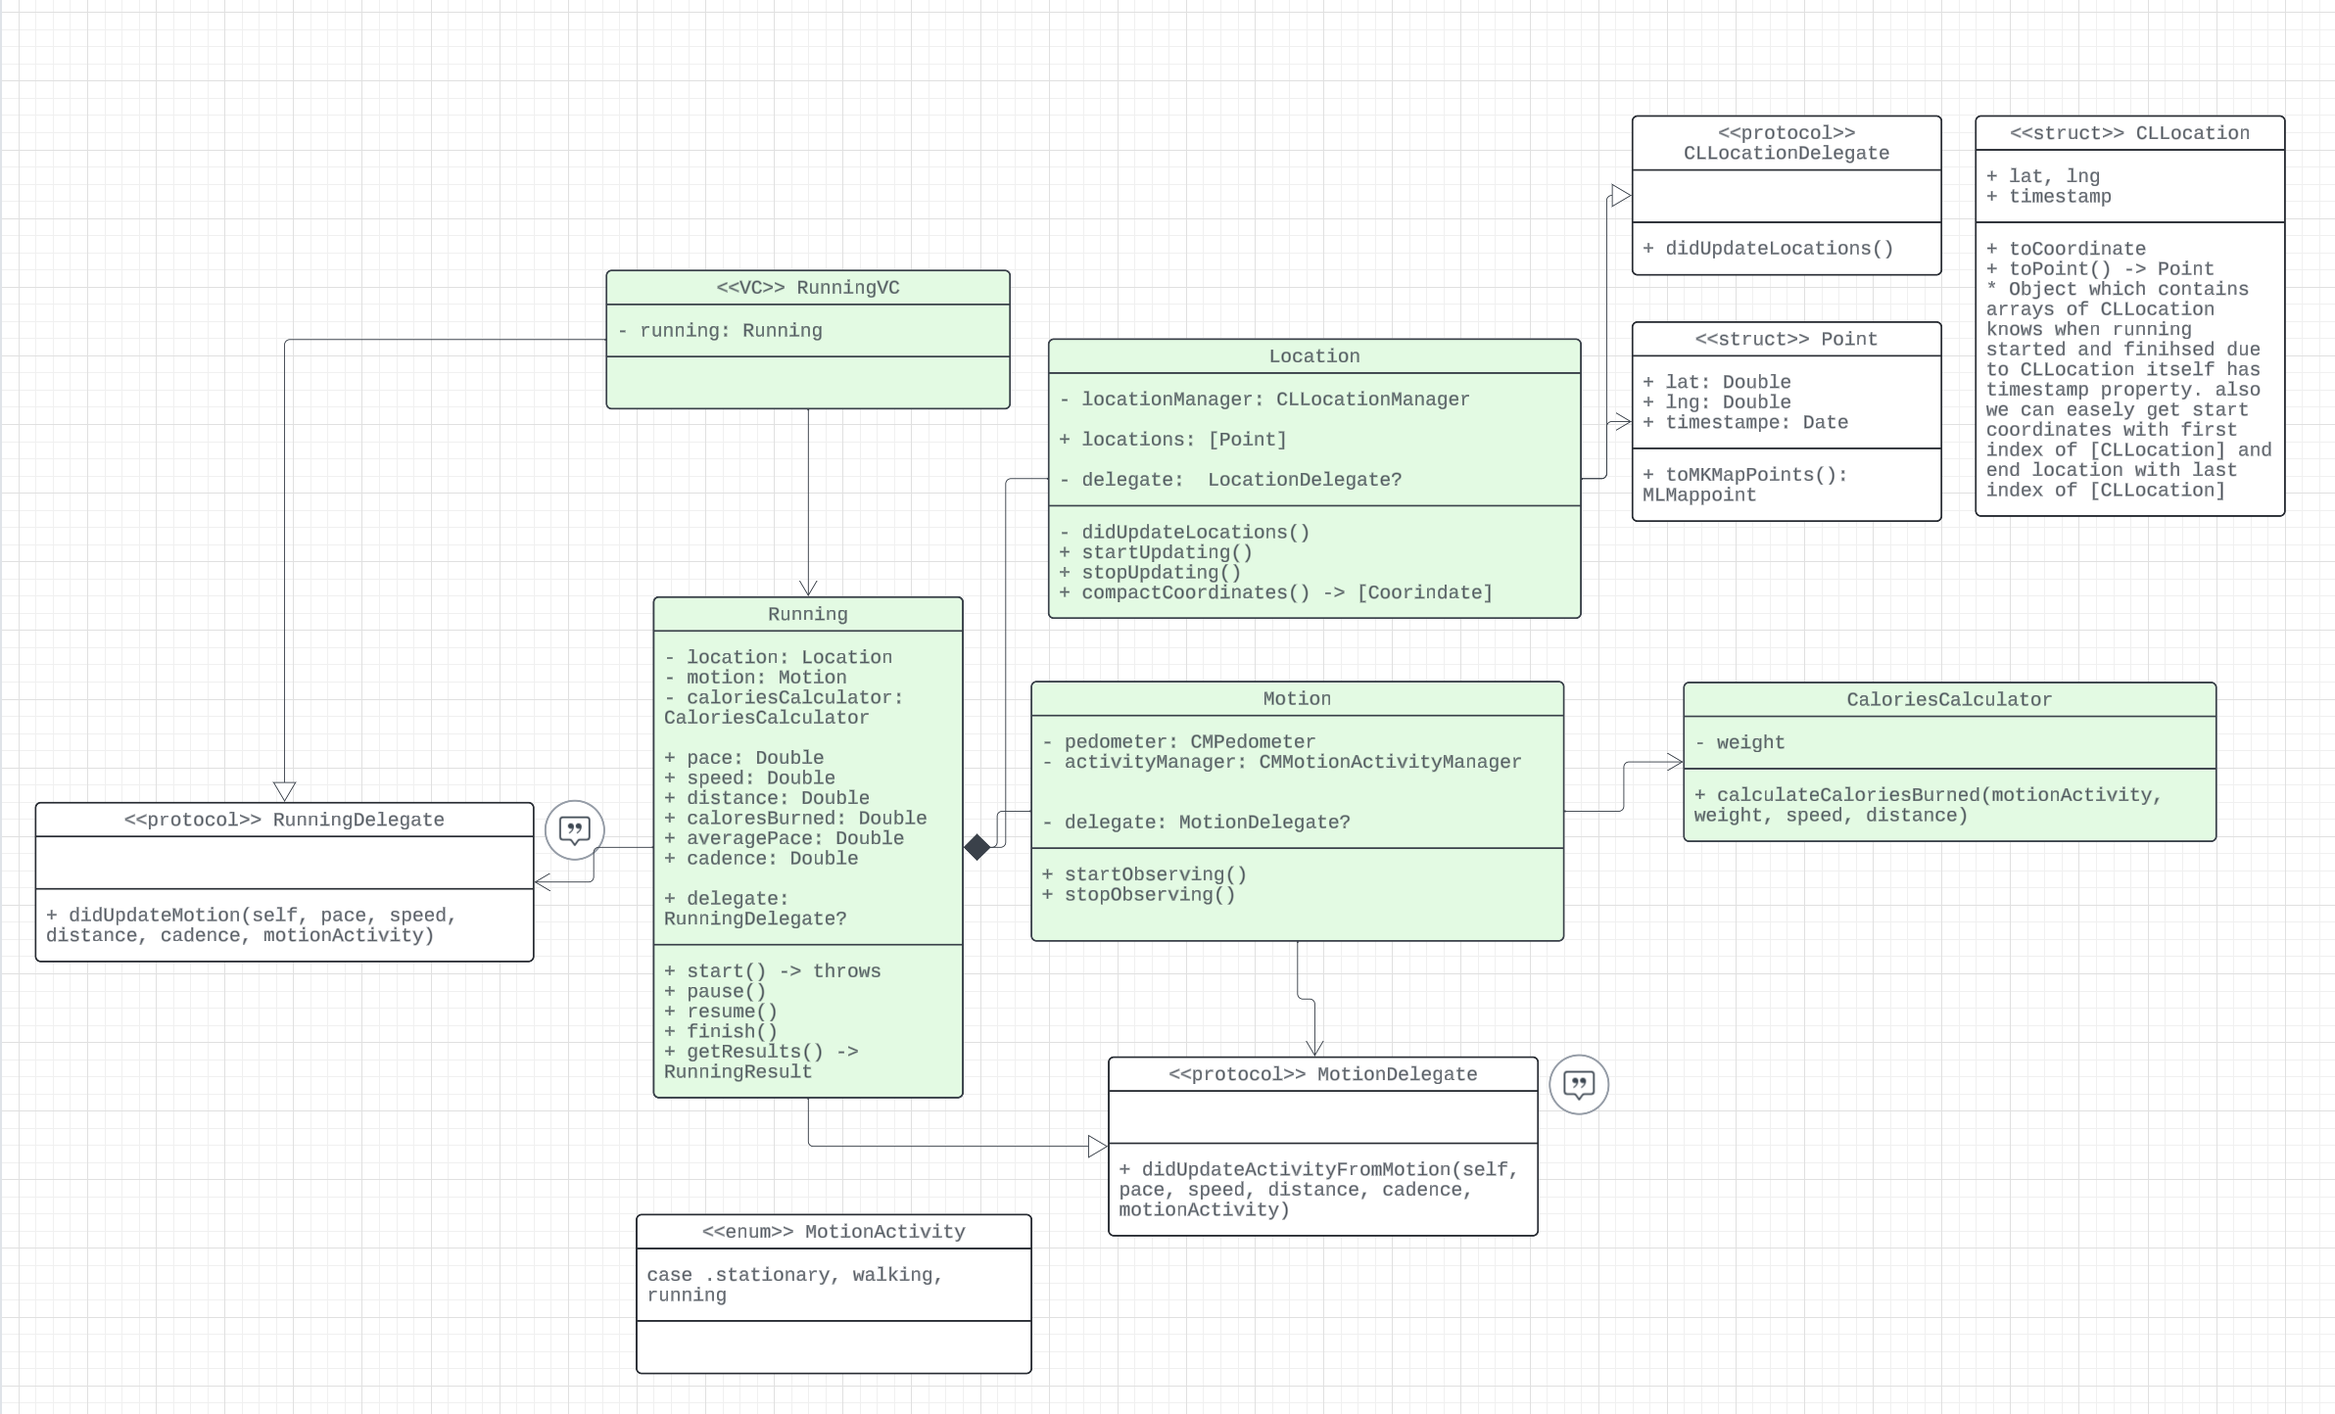
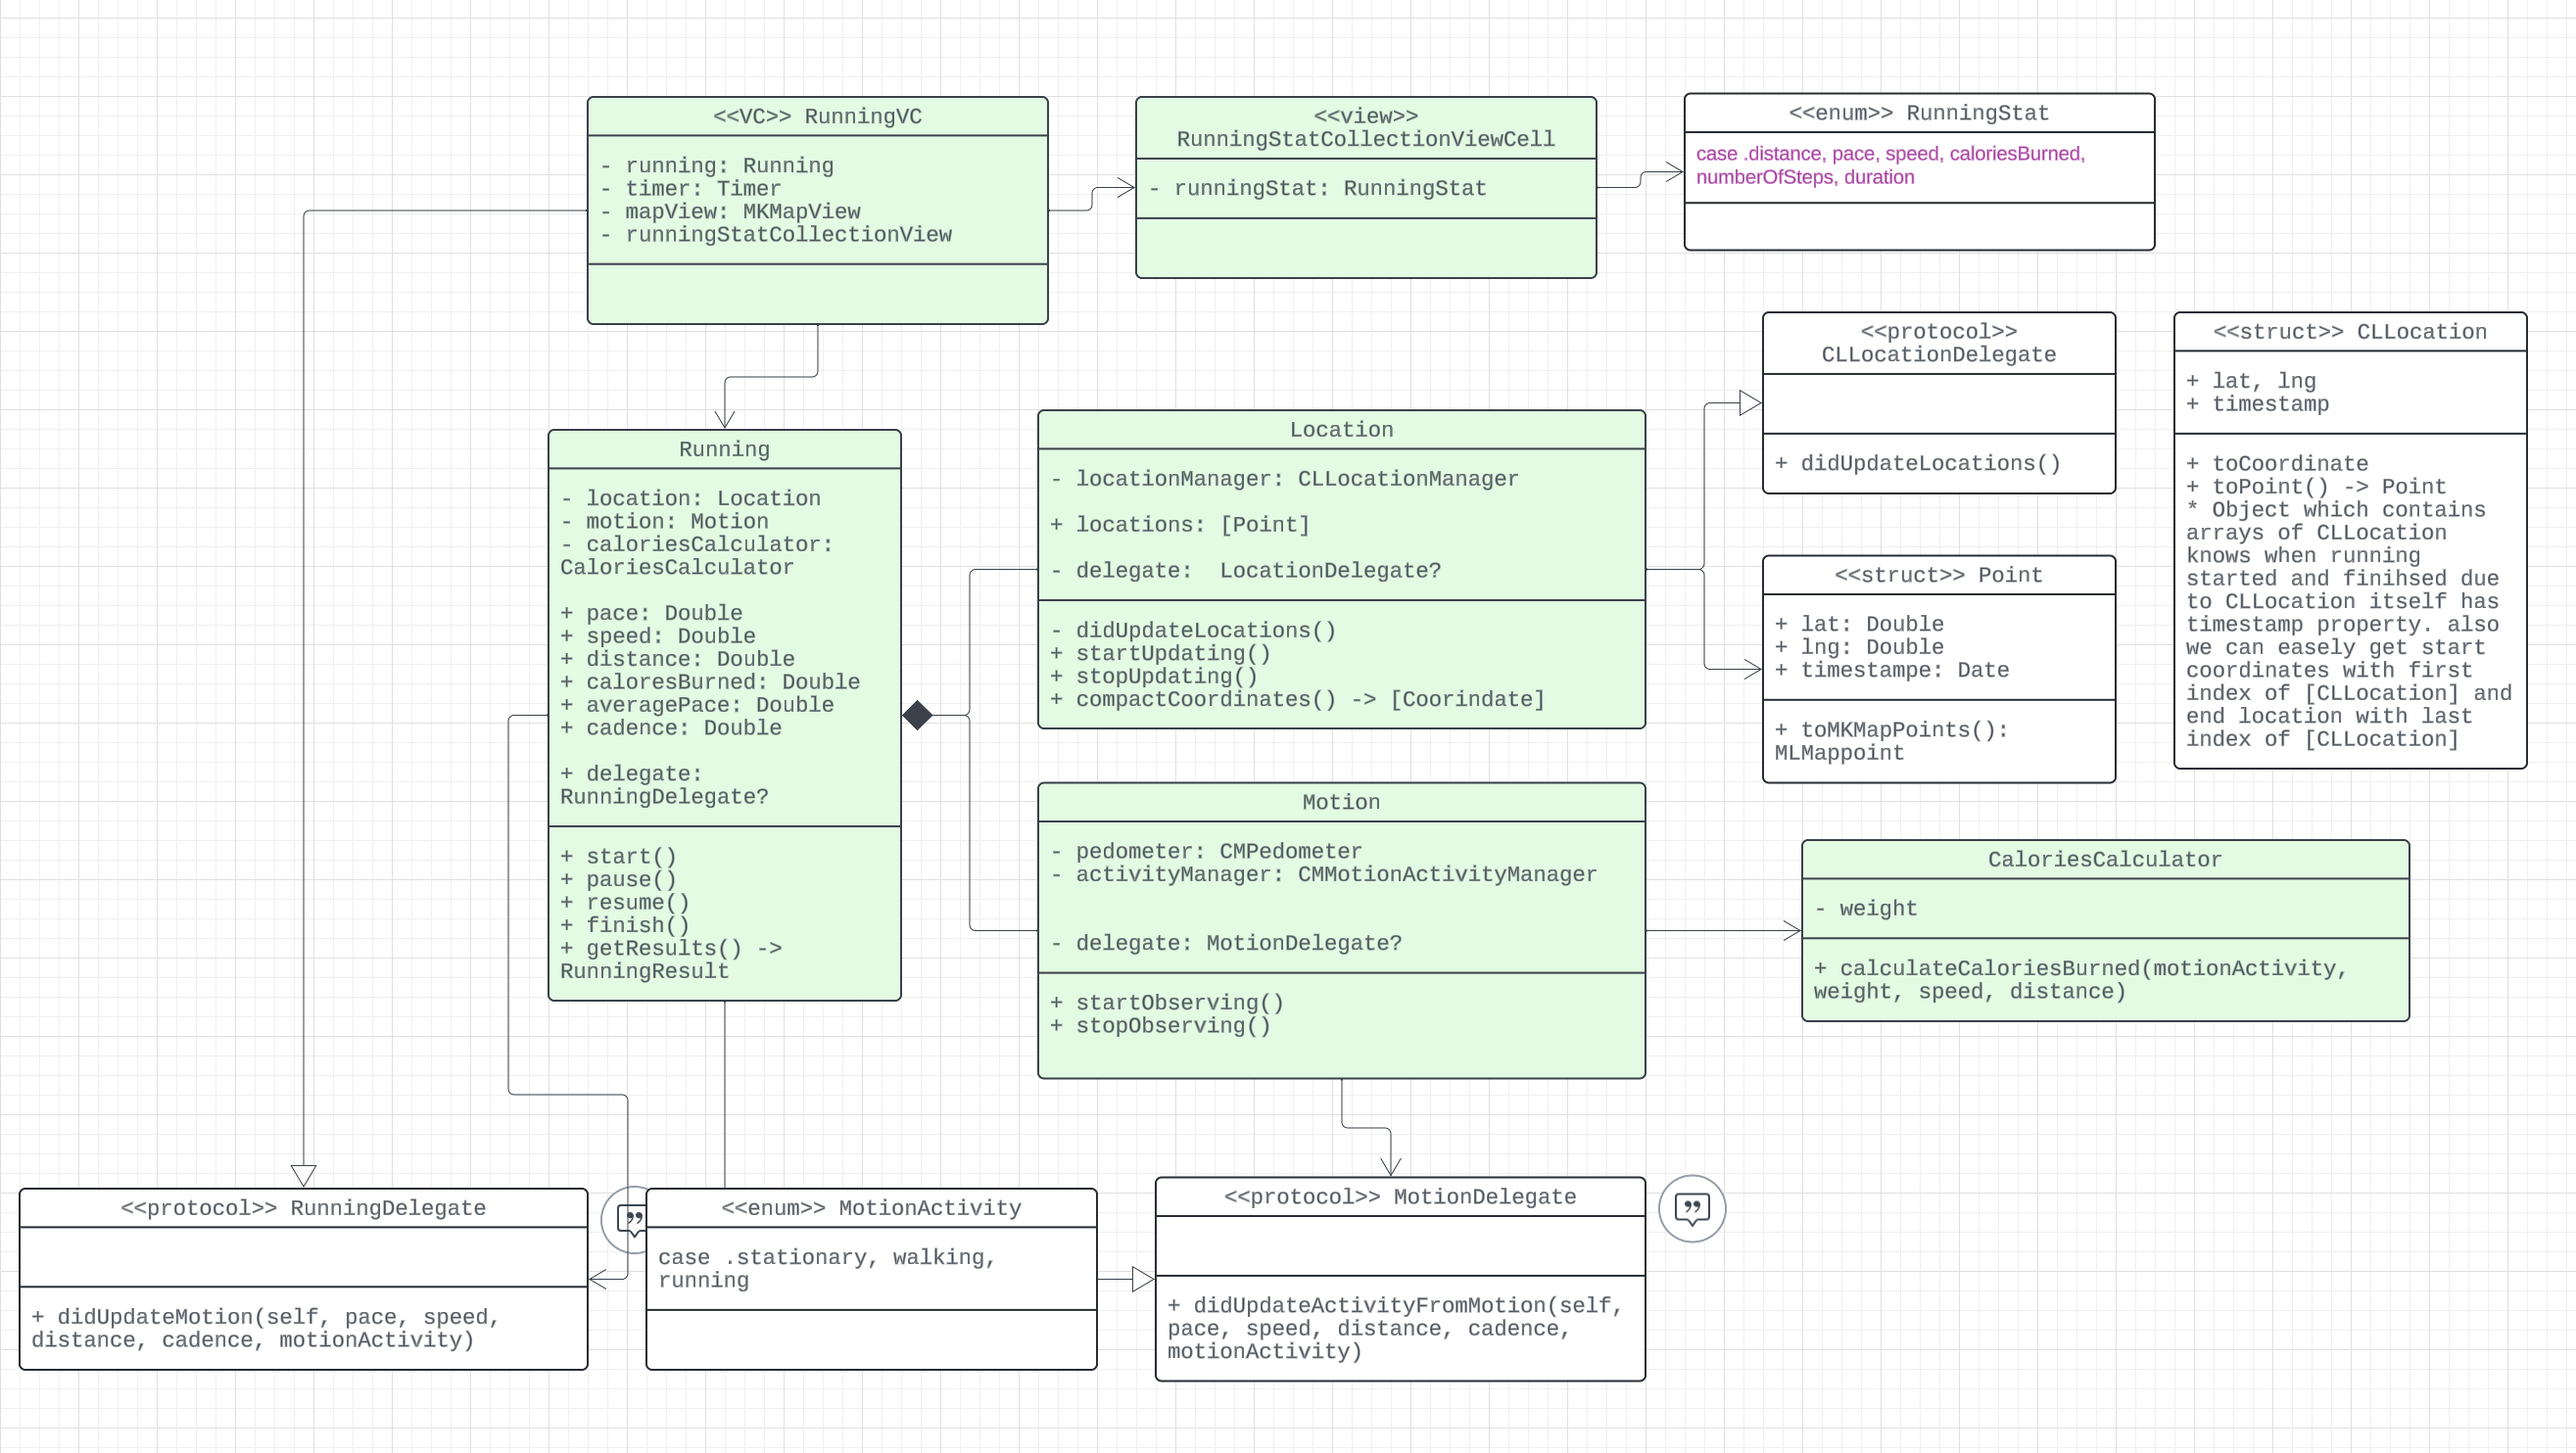
reademe 수정

diff --git a/readme.md b/readme.md
@@ -1,13 +1,22 @@
 # RunPepperRun
-iPhone 디바이스의 GPS, 자이로스코프, 가속도계 등을 이용하여 러닝을 하는 사용자의 러닝 루트, 거리, 속도, 소모 칼로리 등을 측정하고 저장하는 앱입니다. 좋은 설계와 iOS 스러운 디자인을 중점으로 개발했습니다.
+iPhone 디바이스의 GPS와 가속도계로 사용자의 러닝 루트, 거리, 속도, 소모 칼로리 등을 측정하고 저장하는 앱입니다. 좋은 설계와 iOS스러운 디자인을 중점으로 개발했습니다.
 
 > 개발기간 2023.11 ~ 2024.02
+
 
 # 사용 기술
 - Swift, UIKit
 - CoreLocation, CoreMotion, Mapkit
-- SnapKit, Charts
+- [SnapKit](https://github.com/SnapKit/SnapKit), [Charts](https://github.com/danielgindi/Charts)
 - Firebase Auth, Firestore
+
+
+# 아키텍처
+> 가장 기본이 되는 MVC 패턴을 채용하였습니다. 개발 이전에 UML을 그리고, 미리 API의 가용성을 확인 해 본 후 개발을 진행했습니다.
+
+<p float="left">
+    <img src="./essets/MVC.png" />
+</p>
 
 # 주요 기능
 
@@ -16,6 +25,7 @@ iPhone 디바이스의 GPS, 자이로스코프, 가속도계 등을 이용하여
 <p float="left">
     <img src="./essets/로그인-1.PNG" width="150" />
     <img src="./essets/로그인-2.PNG" width="150" />
+    <img src="./essets/닉네임.PNG" width="150" />
 </p>
 
 > MKMapView, CoreLocation을 활용한 유저의 위치, 러닝 루트 표시
@@ -35,7 +45,7 @@ iPhone 디바이스의 GPS, 자이로스코프, 가속도계 등을 이용하여
     <img src="./essets/러닝결과표시.PNG" width="150" />
 </p>
 
-> UISegmentedControl, UIMenu를 통해 필터링한 러닝 데이터 필터링
+> UISegmentedControl, UIMenu, UIDefferedMenuElement를 통해 메뉴 생성
 <p float="left">
     <img src="./essets/메뉴-주.PNG" width="150" />
     <img src="./essets/메뉴-월.PNG" width="150" />
@@ -57,7 +67,6 @@ iPhone 디바이스의 GPS, 자이로스코프, 가속도계 등을 이용하여
 <p float="left">
     <img src="./essets/러닝_UML.png" />
 </p>
-> LucidChart 이용
 
 ### Running
 - 시작, 멈춤, 재개 등 상태 관리
@@ -76,15 +85,9 @@ iPhone 디바이스의 GPS, 자이로스코프, 가속도계 등을 이용하여
 - 저장될 러닝 결과를 의미
 - ResultVC로 부터 생성된 RunningResult로 생성
 
-> Visual Paradigm 이용
-
 <p float="left">
     <img src="./essets/히스토리_UML.png" />
 </p>
-
-### HistoryChartManager
-- History를 Charts에 표시할 수 있도록 HistoryBar로 변경
-- 변경된 HistoryBar로 Chart를 그림
 
 ### FirebaseRepository
 - Firestore로부터 데이터를 불러옴
@@ -92,24 +95,14 @@ iPhone 디바이스의 GPS, 자이로스코프, 가속도계 등을 이용하여
 ### ChartScope, Period
 - UISegmentedControl을 주, 월로 바꿀 때마다 현재 날짜로부터 계산하여 최근 4주 혹은 지난달, 이번달의 기간(Period)을 생성
 
-# 아키텍처
-
-> MVC 패턴을 채용하였으며 M은 Model, V는 View, C는 Controller를 나타냅니다.
+## 유저
+- 유저의 닉네임과 몸무게를 받는다.
+- 로그인 세션은 Firebase Auth로 관리하며 데이터는 Firestore에 저장
 
 <p float="left">
-    <img src="./essets/MVC.png" />
+    <img src="./essets/유저_UML.png" />
 </p>
 
-Model은 데이터와 데이터를 변환하는 로직을 담당하고 View는 UI를 가지고 있으며 둘 사이의 Controller는 비즈니스 로직을 담당한다.
-
-Controller가 Model의 데이터를 가공하여 View에 전달하며 View로부터 받은 이벤트를 Controller가 처리한다.
-
-1. View가 Controller에 액션을 보낸다.
-2. Controller가 Model을 업데이트 한다.
-3. Model의 변화를 Controller에 알린다.
-4. Controller가 View를 업데이트 한다.
-
-애플의 MVC 구조는 View와 Model이 서로 알필요가 없게 한다. iOS에서는 View가 VC의 라이프사이클과 깊은 연관이 있어 VC와 View가 보다 깊은 관계를 가지고 VC가 모든일을 하게 된다.
 
 # 커밋 메시지 규칙
 > 코드 리뷰를 받는데 있어 커밋 메시지로 커밋 내 코드가 어떤지 명확히 보기 위하여 프로젝트 중간 커밋 메시지 규칙을 도입했습니다.
